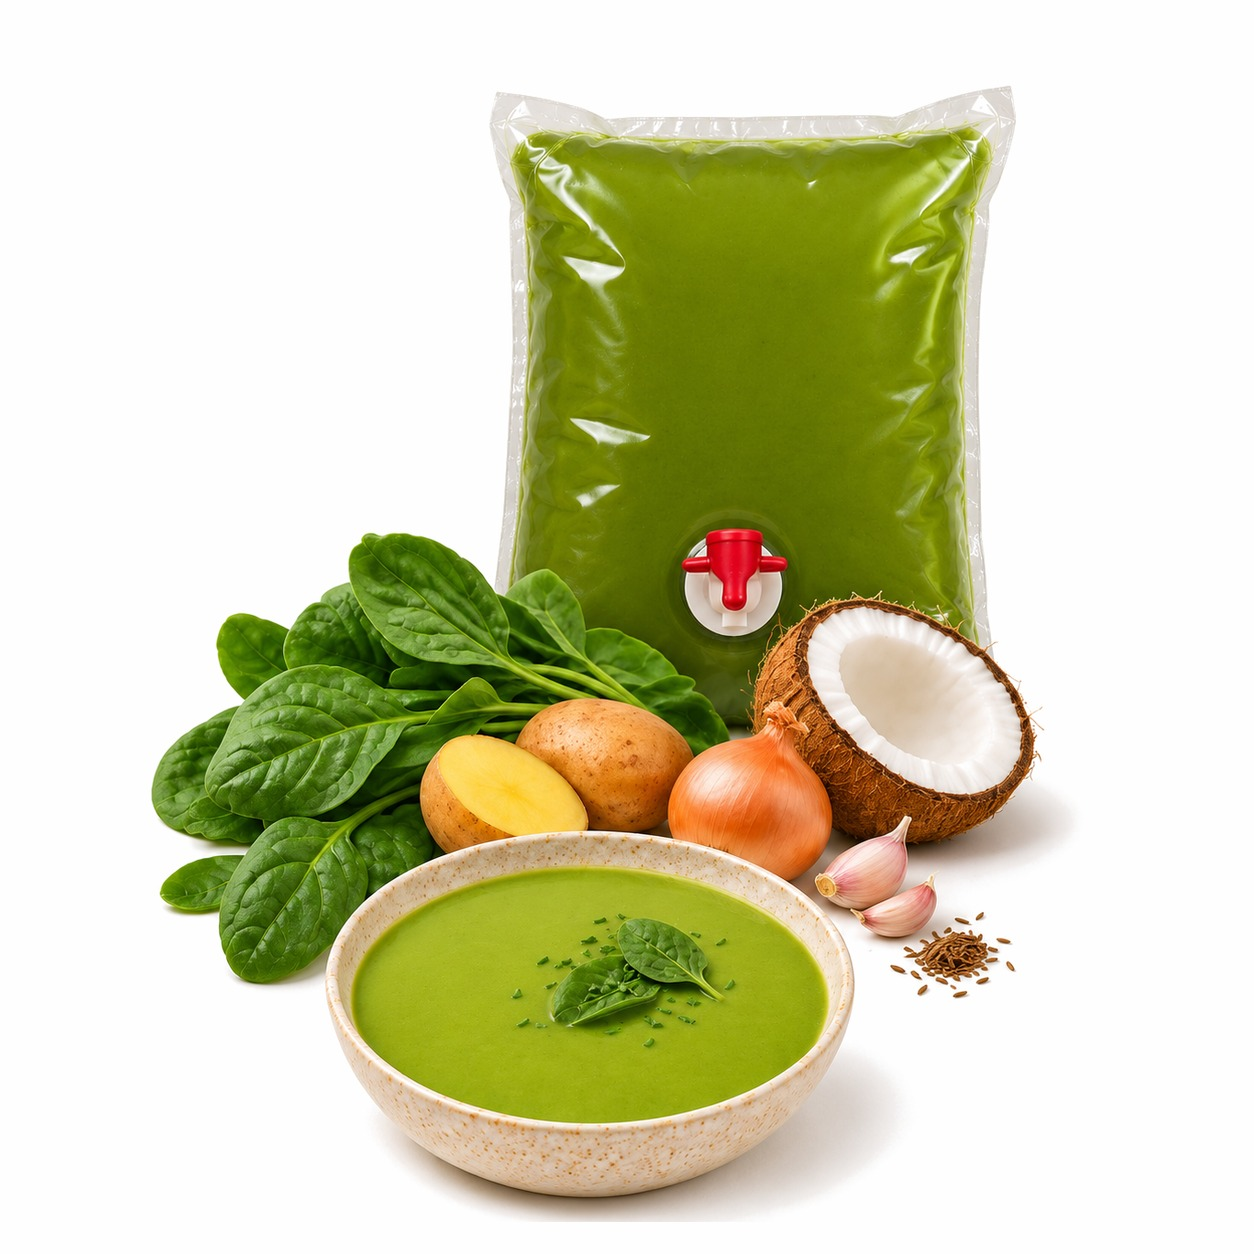
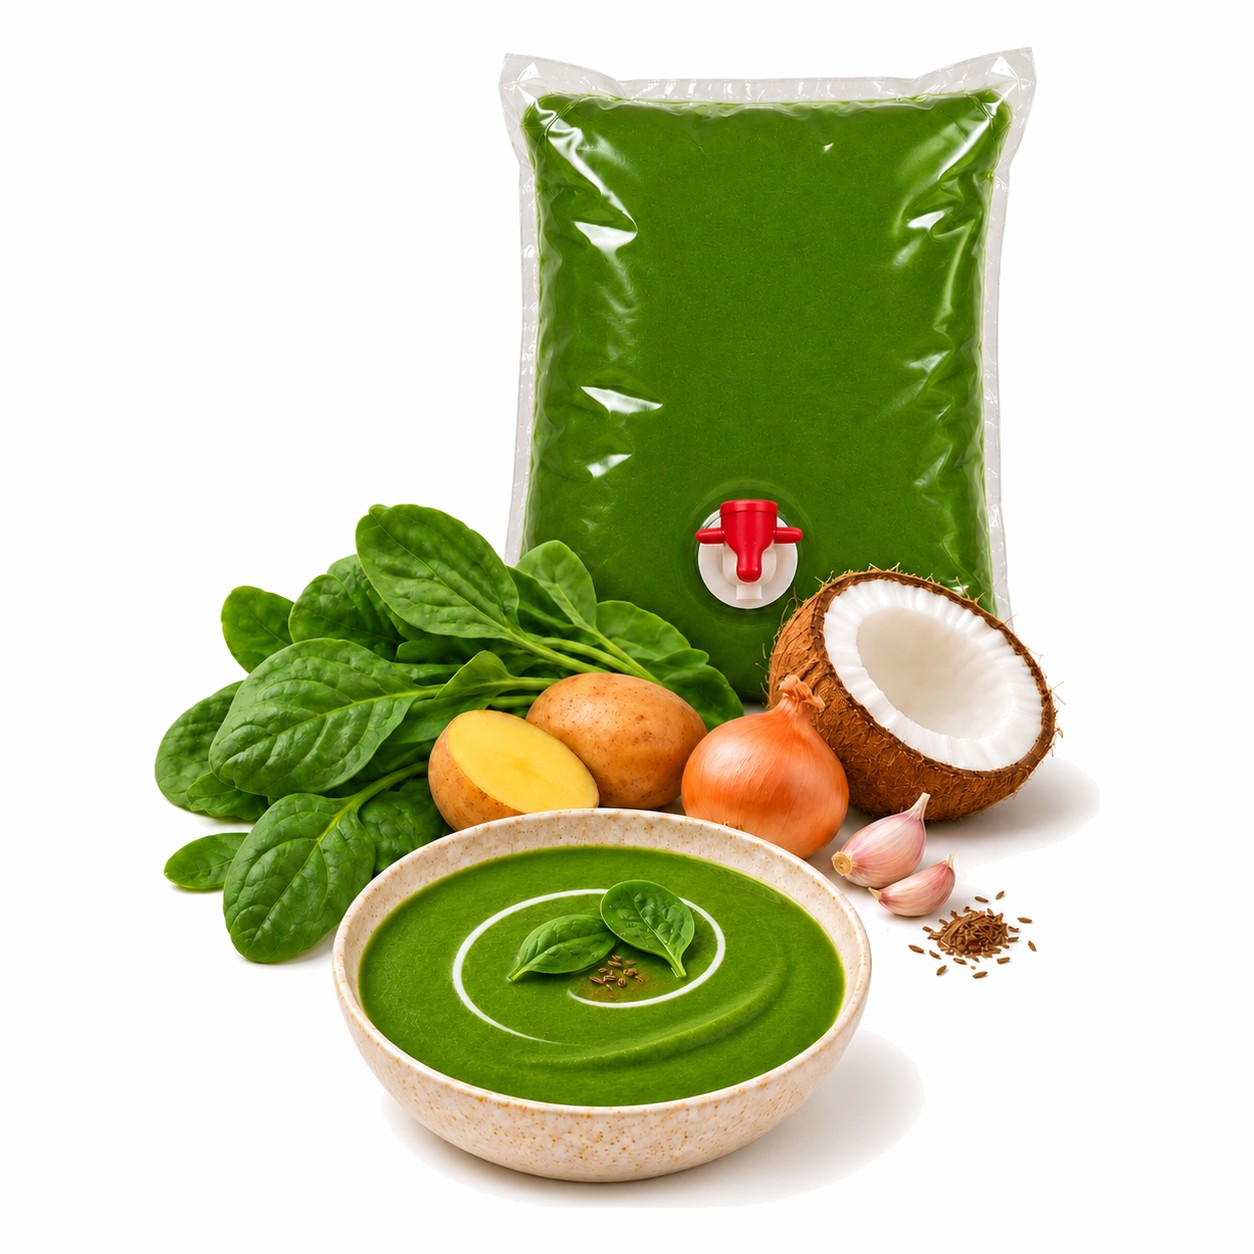
E-shop: koktejly s beginou a hustší špenátová polévka (#179)
Claude-Session: https://claude.ai/code/session_016QL8fyP6fDGx2RMwKgd8AU

diff --git a/dashboard/lib/eshop/productImages.ts b/dashboard/lib/eshop/productImages.ts
@@ -70,6 +70,13 @@ const BACKDROP: Record<string, string> = {
   "/eshop/koktejly/granatovy-bond-hlavni.jpg": "#fefefe",
   "/eshop/koktejly/svarak-deluxe-hlavni.jpg": "#fefefe",
   "/eshop/koktejly/kosmopolitan-hlavni.jpg": "#fefefe",
+  "/eshop/koktejly/lady-carneval-begina.jpg": "#fefefe",
+  "/eshop/koktejly/granatovy-bond-begina.jpg": "#fefefe",
+  "/eshop/koktejly/svarak-deluxe-begina.jpg": "#fefefe",
+  "/eshop/koktejly/kosmopolitan-begina.jpg": "#fefefe",
+  // špenátová polévka od 13. 11. 2026 (hustší)
+  "/eshop/polevky/spenatova-polevka-hlavni.jpg": "#fefefe",
+  "/eshop/polevky/spenatova-polevka-begina.jpg": "#fefefe",
 };
 
 /** Barva podkladu pro fotku na bílém pozadí; null = běžná fotka (ořez na rámeček). */

diff --git a/dashboard/lib/fotky-eshop/manifest.ts b/dashboard/lib/fotky-eshop/manifest.ts
@@ -1,5 +1,11 @@
 // GENEROVÁNO scripts/fotky-eshop/build-manifest.mjs — neupravovat ručně.
 export const FOTKY_MANIFEST: Record<string, string[]> = {
+  "alkoholicke-koktejly/begina-3l": [
+    "granatovy-bond.jpg",
+    "kosmopolitan.jpg",
+    "lady-carneval.jpg",
+    "svarak-deluxe.jpg"
+  ],
   "alkoholicke-koktejly/hlavni": [
     "granatovy-bond.jpg",
     "kosmopolitan.jpg",
